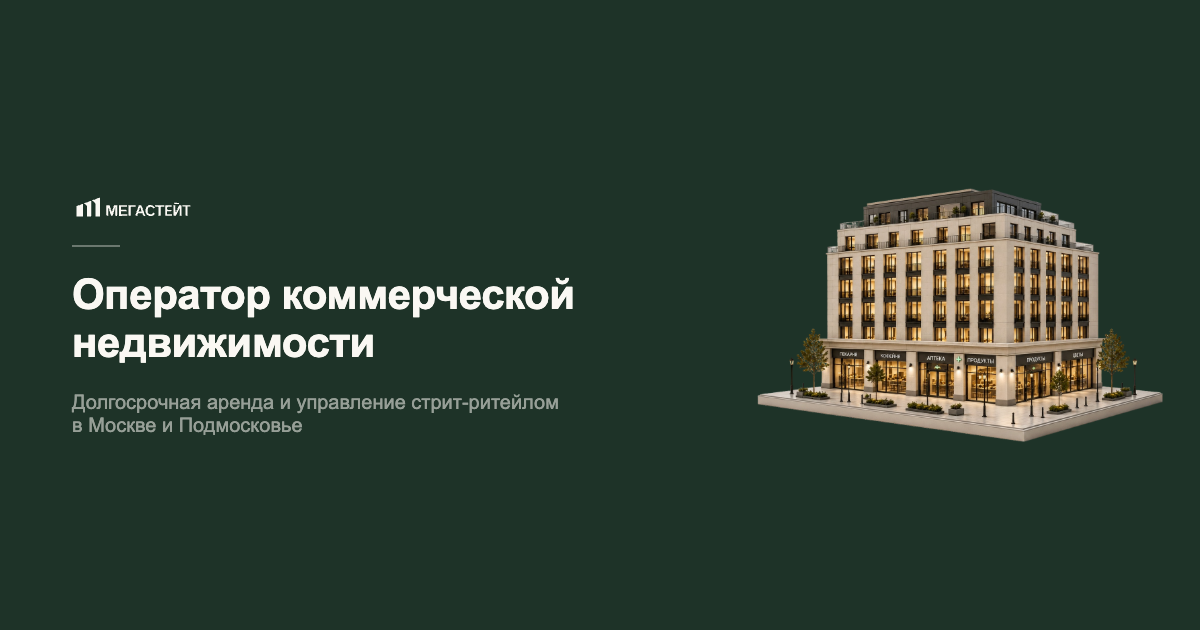
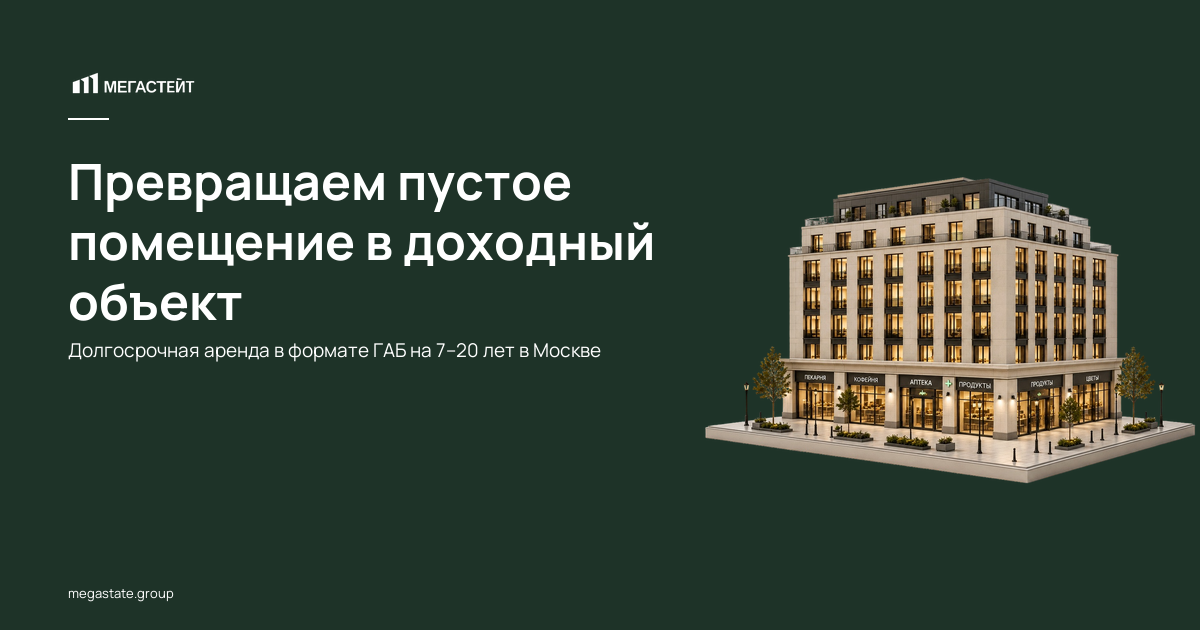
fix: apply final editorial and visual corrections
- Email → [email redacted] across all pages (constants.ts)
- owners/page.tsx: comma → em-dash after "Если объект подходит"
- company/page.tsx: "управление объектом" → "объектами" (number agreement)
- objects/page.tsx: add "В разработке" badge in "Объекты в управлении" section
- layout.tsx: remove data-theme="navy", revert OG to og-image.png
- og-image.png: rebuild with original dark-green #1E3328, real SVG logo, Manrope Bold

diff --git a/app/objects/page.tsx b/app/objects/page.tsx
@@ -147,6 +147,24 @@ export default function ObjectsPage() {
                 <p style={{ color: 'var(--text-muted)', fontSize: '17px', lineHeight: 1.7, marginBottom: '16px' }}>
                   Действующие объекты под операторским управлением МЕГАСТЕЙТ.
                 </p>
+                <div style={{ marginBottom: '20px' }}>
+                  <span style={{
+                    display: 'inline-flex',
+                    alignItems: 'center',
+                    gap: '6px',
+                    padding: '5px 12px',
+                    borderRadius: '999px',
+                    background: 'var(--surface-muted)',
+                    border: '1px solid var(--line)',
+                    fontSize: '13px',
+                    fontWeight: 600,
+                    color: 'var(--text-muted)',
+                    letterSpacing: '0.04em',
+                  }}>
+                    <span style={{ width: '6px', height: '6px', borderRadius: '50%', background: 'var(--accent-soft)', display: 'inline-block' }} />
+                    В разработке
+                  </span>
+                </div>
                 <p
                   style={{
                     marginBottom: '32px',

diff --git a/app/layout.tsx b/app/layout.tsx
@@ -18,7 +18,7 @@ export const metadata: Metadata = {
     type: 'website',
     images: [
       {
-        url: '/og-image-navy.png',
+        url: '/og-image.png',
         width: 1200,
         height: 630,
         alt: 'МЕГАСТЕЙТ — оператор коммерческих помещений в Москве',
@@ -27,7 +27,7 @@ export const metadata: Metadata = {
   },
   twitter: {
     card: 'summary_large_image',
-    images: ['/og-image-navy.png'],
+    images: ['/og-image.png'],
   },
   robots: { index: true, follow: true },
 };
@@ -38,7 +38,7 @@ export default function RootLayout({
   children: React.ReactNode;
 }) {
   return (
-    <html lang="ru" data-theme="navy" className={manrope.variable}>
+    <html lang="ru" className={manrope.variable}>
       <body style={{ minHeight: '100vh', display: 'flex', flexDirection: 'column' }}>
         <a
           href="#main"

diff --git a/lib/constants.ts b/lib/constants.ts
@@ -1,6 +1,6 @@
 export const TELEGRAM_URL = 'https://t.me/MEGASTATE_GROUP';
-export const MAILTO = 'mailto:[email redacted]';
-export const EMAIL = '[email redacted]';
+export const MAILTO = 'mailto:[email redacted]';
+export const EMAIL = '[email redacted]';
 export const PHONE = '[phone redacted]';
 export const PHONE_TEL = 'tel:[phone redacted]';
 export const ADDRESS = 'Москва, улица Садовая-Триумфальная, 16, строение 3, помещение 2А/1';

diff --git a/app/company/page.tsx b/app/company/page.tsx
@@ -49,7 +49,7 @@ export default function CompanyPage() {
               <h1 style={{ marginBottom: '0' }}>МЕГАСТЕЙТ</h1>
               <span className="hero-line" />
               <p style={{ fontSize: '18px', color: 'var(--text-muted)', maxWidth: '480px' }}>
-                Компания работает как независимый оператор объектов типа стрит-ритейл. Мы берём коммерческие помещения в долгосрочную аренду, делим на востребованные рынком части, заселяем арендаторами и ведём дальнейшее управление объектом.
+                Компания работает как независимый оператор объектов типа стрит-ритейл. Мы берём коммерческие помещения в долгосрочную аренду, делим на востребованные рынком части, заселяем арендаторами и ведём дальнейшее управление объектами.
               </p>
             </MotionFadeUp>
           </div>

diff --git a/app/owners/page.tsx b/app/owners/page.tsx
@@ -159,7 +159,7 @@ export default function OwnersPage() {
               <h2 style={{ marginBottom: '24px' }}>Как происходит первый разговор</h2>
               <p style={{ color: 'var(--text-muted)', fontSize: '17px', marginBottom: '24px' }}>
                 Один созвон. Один выезд на объект. Расчёт по нашей модели.
-                Если объект подходит, письменное предложение со ставкой и
+                Если объект подходит — письменное предложение со ставкой и
                 условиями. Без затягивания и без избыточного давления.
               </p>
               <p style={{ color: 'var(--text-muted)', fontSize: '17px', marginBottom: '32px' }}>